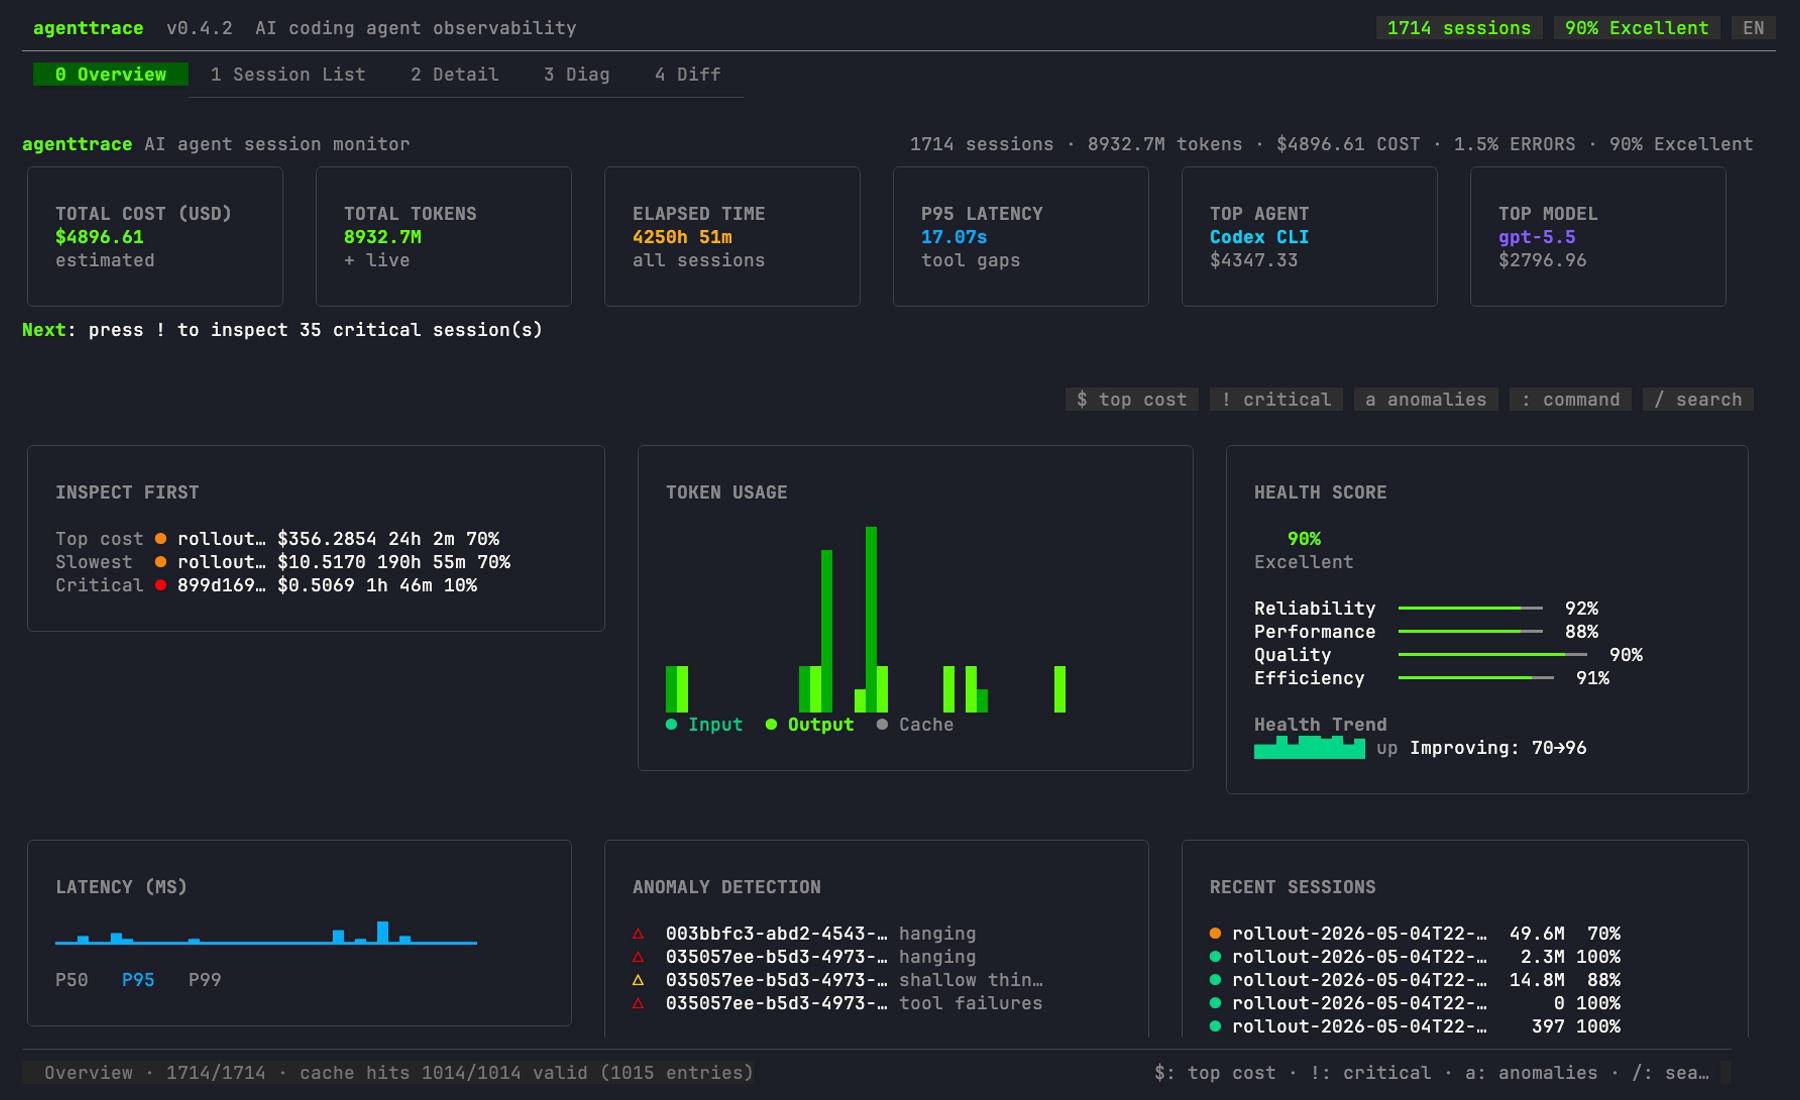
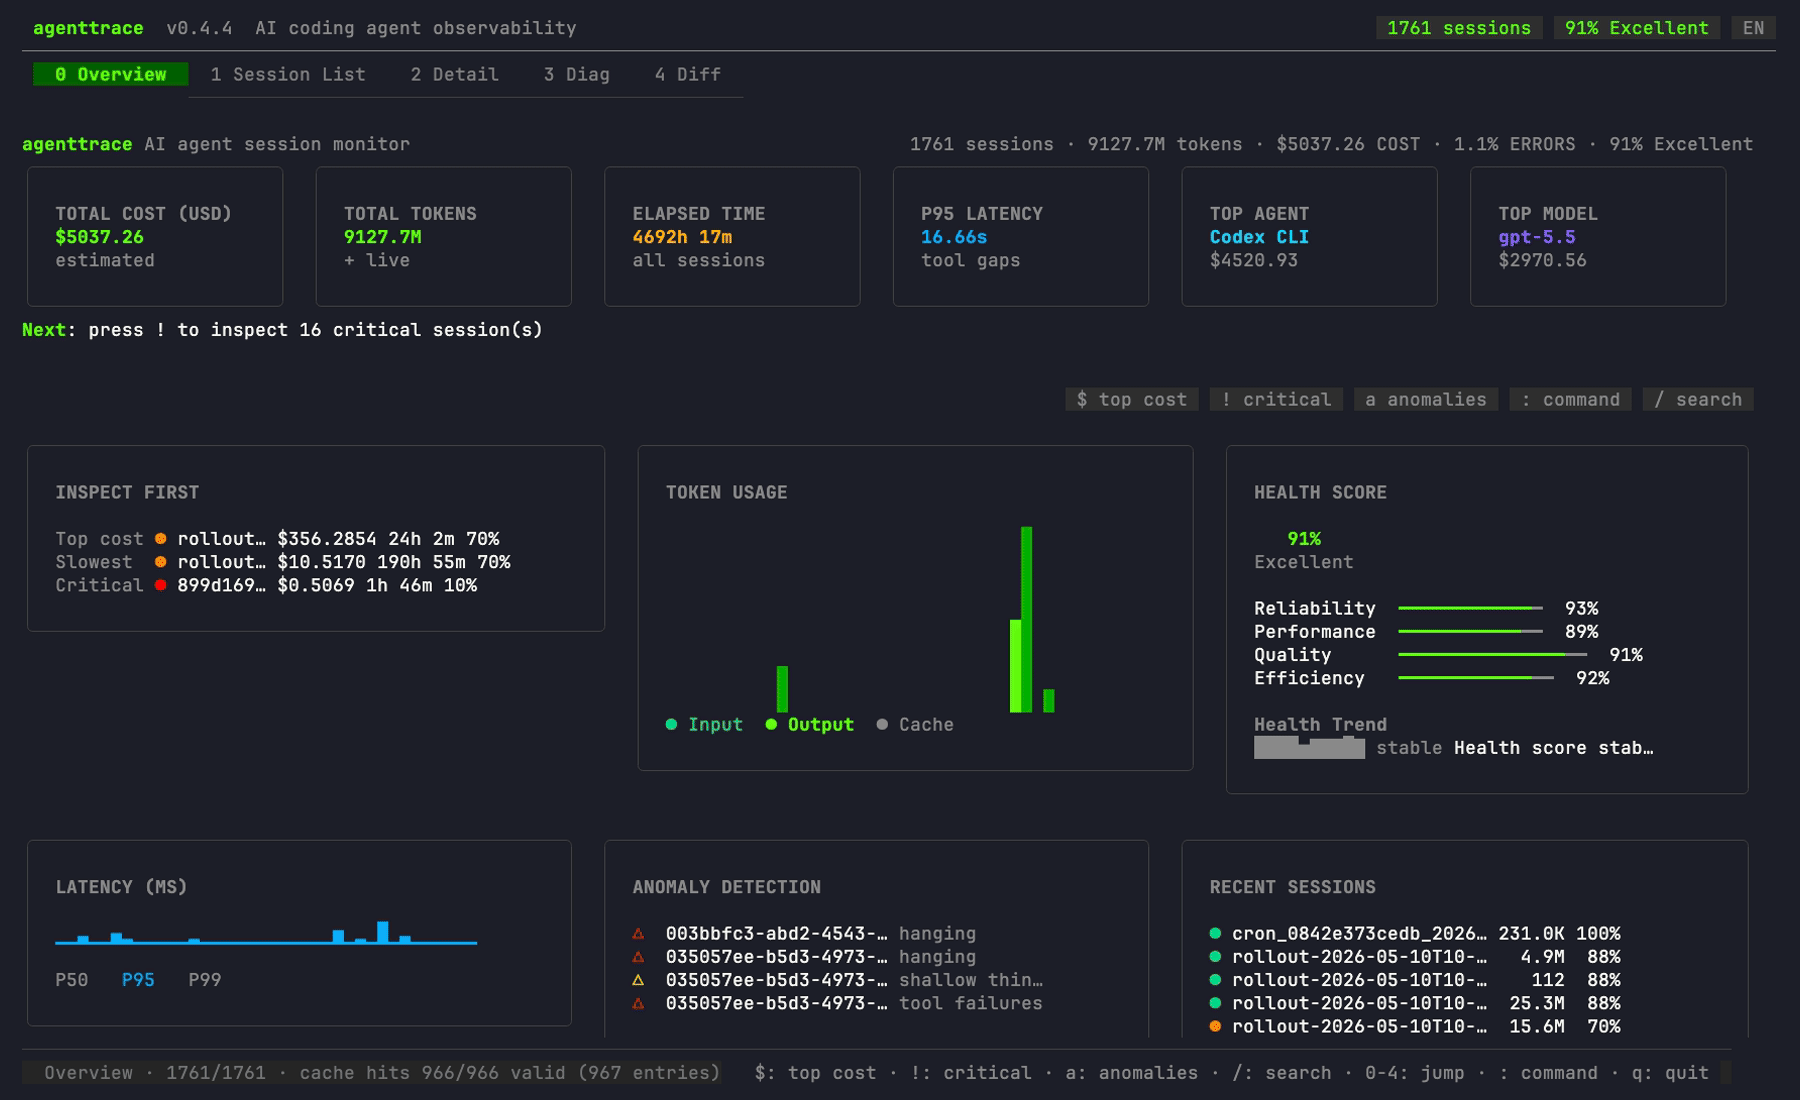
Improve real overview marketing assets

diff --git a/site/demo-report.html b/site/demo-report.html
@@ -18,38 +18,84 @@ section{border:1px solid var(--line);background:rgba(16,20,25,.78);padding:20px;
 <main>
 <header>
 <div><div class="brand">agenttrace</div><h1>AI agent session overview</h1><p>Static report generated from local coding-agent traces.</p></div>
-<div class="meta">v0.4.3<br>3 Sessions<br><code>agenttrace --overview -f html</code></div>
+<div class="meta">v0.4.4<br>1761 Sessions<br><code>agenttrace --overview -f html</code></div>
 </header>
 <div class="grid" aria-label="summary metrics">
-<div class="metric"><span>Sessions</span><strong>3</strong><p>1 Healthy / 1 Warning / 1 Critical</p></div>
-<div class="metric"><span>Total tokens</span><strong>278200</strong><p>+ live</p></div>
-<div class="metric"><span>Average health</span><strong>58.7</strong><p>Fleet quality score</p></div>
-<div class="metric"><span>Total estimated cost</span><strong>$0.81</strong><p>Estimated session cost</p></div>
-<div class="metric bad"><span>Tool failures</span><strong>3/5</strong><p>60.0% failure rate</p></div>
+<div class="metric"><span>Sessions</span><strong>1761</strong><p>1411 Healthy / 334 Warning / 16 Critical</p></div>
+<div class="metric"><span>Total tokens</span><strong>9126644351</strong><p>+ live</p></div>
+<div class="metric"><span>Average health</span><strong>91.8</strong><p>Fleet quality score</p></div>
+<div class="metric"><span>Total estimated cost</span><strong>$5036.55</strong><p>Estimated session cost</p></div>
+<div class="metric "><span>Tool failures</span><strong>1374/125116</strong><p>1.1% failure rate</p></div>
 </div>
-<section><h2>Health Trend</h2><p>Declining: 100→66</p></section>
+<section><h2>Health Trend</h2><p>Health score stable at 93</p></section>
 <section><h2>Recent sessions</h2><table><thead><tr><th>Session</th><th>Source</th><th>Model</th><th class="num">Total tokens</th><th class="num">Cost</th><th class="num">Health</th><th class="num">Anomalies</th></tr></thead><tbody>
-<tr><td>03-shallow-chat</td><td>Hermes Agent (JSONL)</td><td>gemini-2.5-pro</td><td class="num">30200</td><td class="num">$0.0570</td><td class="num health-warn">66</td><td class="num">2</td></tr>
-<tr><td>02-hanging-loop</td><td>Hermes Agent (JSONL)</td><td>gpt-5.1</td><td class="num">233000</td><td class="num">$0.7113</td><td class="num health-bad">10</td><td class="num">3</td></tr>
-<tr><td>01-healthy-ship</td><td>Hermes Agent (JSONL)</td><td>claude-sonnet-4</td><td class="num">15000</td><td class="num">$0.0423</td><td class="num health-good">100</td><td class="num">0</td></tr>
+<tr><td>cron_0842e373cedb_20260510_103446</td><td>Hermes Agent (DB)</td><td>deepseek-v4-pro</td><td class="num">231046</td><td class="num">$0.0262</td><td class="num health-good">100</td><td class="num">0</td></tr>
+<tr><td>rollout-2026-05-10T10-33-05-019e0fbb-2da0-7570-b5f6-52a87f36c475</td><td>Codex CLI</td><td>gpt-5.5</td><td class="num">4287306</td><td class="num">$3.8765</td><td class="num health-good">88</td><td class="num">1</td></tr>
+<tr><td>rollout-2026-05-10T10-28-58-019e0fb7-6630-7d33-abbb-49598571d2f0</td><td>Codex CLI</td><td>default</td><td class="num">112</td><td class="num">$0.0003</td><td class="num health-good">88</td><td class="num">1</td></tr>
+<tr><td>rollout-2026-05-10T10-10-26-019e0fa6-6f54-7e52-bd20-ef397dbef095</td><td>Codex CLI</td><td>gpt-5.5</td><td class="num">24795262</td><td class="num">$18.9060</td><td class="num health-good">88</td><td class="num">1</td></tr>
+<tr><td>rollout-2026-05-10T10-00-22-019e0f9d-3aa3-7dc3-888d-d0018aa9db58</td><td>Codex CLI</td><td>gpt-5.5</td><td class="num">15596970</td><td class="num">$12.6673</td><td class="num health-warn">70</td><td class="num">1</td></tr>
+<tr><td>cron_7d8438ade909_20260510_100054</td><td>Hermes Agent (DB)</td><td>deepseek-v4-pro</td><td class="num">746516</td><td class="num">$0.0548</td><td class="num health-good">100</td><td class="num">0</td></tr>
+<tr><td>cron_0842e373cedb_20260510_092908</td><td>Hermes Agent (DB)</td><td>deepseek-v4-pro</td><td class="num">273808</td><td class="num">$0.0572</td><td class="num health-good">100</td><td class="num">0</td></tr>
+<tr><td>cron_a0badf79a0f1_20260510_090002</td><td>Hermes Agent (DB)</td><td>deepseek-v4-pro</td><td class="num">0</td><td class="num">$0.0000</td><td class="num health-good">100</td><td class="num">0</td></tr>
+<tr><td>cron_08a59868b230_20260510_084925</td><td>Hermes Agent (DB)</td><td>deepseek-v4-pro</td><td class="num">151445</td><td class="num">$0.0210</td><td class="num health-good">100</td><td class="num">0</td></tr>
+<tr><td>cron_cecb519df4ac_20260510_083045</td><td>Hermes Agent (DB)</td><td>deepseek-v4-pro</td><td class="num">2443632</td><td class="num">$0.0530</td><td class="num health-good">100</td><td class="num">0</td></tr>
+<tr><td>cron_0842e373cedb_20260510_082323</td><td>Hermes Agent (DB)</td><td>deepseek-v4-pro</td><td class="num">227107</td><td class="num">$0.0365</td><td class="num health-good">100</td><td class="num">0</td></tr>
+<tr><td>cron_0842e373cedb_20260510_071728</td><td>Hermes Agent (DB)</td><td>deepseek-v4-pro</td><td class="num">267343</td><td class="num">$0.0252</td><td class="num health-good">100</td><td class="num">0</td></tr>
+<tr><td>cron_0842e373cedb_20260510_061436</td><td>Hermes Agent (DB)</td><td>deepseek-v4-pro</td><td class="num">144309</td><td class="num">$0.0215</td><td class="num health-good">100</td><td class="num">0</td></tr>
+<tr><td>cron_0842e373cedb_20260510_051108</td><td>Hermes Agent (DB)</td><td>deepseek-v4-pro</td><td class="num">142889</td><td class="num">$0.0273</td><td class="num health-good">100</td><td class="num">0</td></tr>
+<tr><td>cron_0842e373cedb_20260510_040841</td><td>Hermes Agent (DB)</td><td>deepseek-v4-pro</td><td class="num">132873</td><td class="num">$0.0174</td><td class="num health-good">100</td><td class="num">0</td></tr>
+<tr><td>cron_0842e373cedb_20260510_030507</td><td>Hermes Agent (DB)</td><td>deepseek-v4-pro</td><td class="num">167354</td><td class="num">$0.0143</td><td class="num health-good">100</td><td class="num">0</td></tr>
+<tr><td>cron_0842e373cedb_20260510_020059</td><td>Hermes Agent (DB)</td><td>deepseek-v4-pro</td><td class="num">157768</td><td class="num">$0.0323</td><td class="num health-good">100</td><td class="num">0</td></tr>
+<tr><td>cron_0842e373cedb_20260510_005452</td><td>Hermes Agent (DB)</td><td>deepseek-v4-pro</td><td class="num">232633</td><td class="num">$0.0182</td><td class="num health-good">100</td><td class="num">0</td></tr>
+<tr><td>cron_0842e373cedb_20260509_234835</td><td>Hermes Agent (DB)</td><td>deepseek-v4-pro</td><td class="num">366561</td><td class="num">$0.0555</td><td class="num health-good">100</td><td class="num">0</td></tr>
+<tr><td>cron_0842e373cedb_20260509_224516</td><td>Hermes Agent (DB)</td><td>deepseek-v4-pro</td><td class="num">109427</td><td class="num">$0.0188</td><td class="num health-good">100</td><td class="num">0</td></tr>
 </tbody></table></section>
 <section><h2>By agent</h2><table><thead><tr><th>Agent</th><th class="num">Sessions</th><th class="num">Cost</th></tr></thead><tbody>
-<tr><td>Hermes Agent (JSONL)</td><td class="num">3</td><td class="num">$0.81</td></tr>
+<tr><td>Codex CLI</td><td class="num">615</td><td class="num">$4520.23</td></tr>
+<tr><td>Hermes Agent (DB)</td><td class="num">603</td><td class="num">$105.81</td></tr>
+<tr><td>Claude Code</td><td class="num">343</td><td class="num">$331.13</td></tr>
+<tr><td>OpenCode (DB)</td><td class="num">188</td><td class="num">$79.38</td></tr>
+<tr><td>Generic JSON/JSONL</td><td class="num">12</td><td class="num">$0.00</td></tr>
 </tbody></table></section>
 <section><h2>By model</h2><table><thead><tr><th>Model</th><th class="num">Sessions</th><th class="num">Cost</th></tr></thead><tbody>
-<tr><td>gpt-5.1</td><td class="num">1</td><td class="num">$0.71</td></tr>
-<tr><td>gemini-2.5-pro</td><td class="num">1</td><td class="num">$0.06</td></tr>
-<tr><td>claude-sonnet-4</td><td class="num">1</td><td class="num">$0.04</td></tr>
+<tr><td>gpt-5.5</td><td class="num">124</td><td class="num">$2969.85</td></tr>
+<tr><td>gpt-5.4</td><td class="num">384</td><td class="num">$1400.10</td></tr>
+<tr><td>gpt-5.3-codex</td><td class="num">82</td><td class="num">$147.00</td></tr>
+<tr><td>claude-sonnet-4-6</td><td class="num">57</td><td class="num">$124.42</td></tr>
+<tr><td>glm-5.1</td><td class="num">99</td><td class="num">$87.61</td></tr>
+<tr><td>deepseek-v4-pro</td><td class="num">191</td><td class="num">$60.15</td></tr>
+<tr><td>mlx-community/Qwen3.6-35B-A3B-4bit</td><td class="num">2</td><td class="num">$36.27</td></tr>
+<tr><td>qwen3.6-plus</td><td class="num">47</td><td class="num">$33.51</td></tr>
+<tr><td>glm-5</td><td class="num">41</td><td class="num">$31.59</td></tr>
+<tr><td>glm-5-turbo</td><td class="num">20</td><td class="num">$27.14</td></tr>
+<tr><td>kimi-k2.6</td><td class="num">18</td><td class="num">$23.09</td></tr>
+<tr><td>minimax-2.7</td><td class="num">132</td><td class="num">$22.31</td></tr>
 </tbody></table></section>
 <section><h2>Recent anomalies</h2>
 <table><thead><tr><th>Session</th><th>Type</th><th>Age</th></tr></thead><tbody>
-<tr><td>02-hanging-loop</td><td>hanging</td><td>now</td></tr>
-<tr><td>02-hanging-loop</td><td>shallow thinking</td><td>now</td></tr>
-<tr><td>02-hanging-loop</td><td>tool failures</td><td>now</td></tr>
-<tr><td>03-shallow-chat</td><td>shallow thinking</td><td>now</td></tr>
-<tr><td>03-shallow-chat</td><td>no tools</td><td>now</td></tr>
+<tr><td>003bbfc3-abd2-4543-80d4-da9e743ac30d</td><td>hanging</td><td>now</td></tr>
+<tr><td>035057ee-b5d3-4973-a979-edc162ec8d8f</td><td>hanging</td><td>now</td></tr>
+<tr><td>035057ee-b5d3-4973-a979-edc162ec8d8f</td><td>shallow thinking</td><td>now</td></tr>
+<tr><td>035057ee-b5d3-4973-a979-edc162ec8d8f</td><td>tool failures</td><td>now</td></tr>
+<tr><td>067531ee-ea81-4139-9bc2-de1700bddecb</td><td>hanging</td><td>now</td></tr>
+<tr><td>09c7c008-de2c-4174-8141-fd557e60f246</td><td>hanging</td><td>now</td></tr>
+<tr><td>104f245e-2485-4107-a320-16f950000c94</td><td>shallow thinking</td><td>now</td></tr>
+<tr><td>104f245e-2485-4107-a320-16f950000c94</td><td>tool failures</td><td>now</td></tr>
+<tr><td>15292f42-b24b-4dda-a933-55c1d80c93e4</td><td>shallow thinking</td><td>now</td></tr>
+<tr><td>17623e3d-87ee-4194-bddc-44953243bfc6</td><td>hanging</td><td>now</td></tr>
+<tr><td>19fd2728-7709-43cb-9274-f356d8533f51</td><td>shallow thinking</td><td>now</td></tr>
+<tr><td>1a41c99d-3820-44fa-8dd2-1d51f3b4654c</td><td>hanging</td><td>now</td></tr>
+<tr><td>1a41c99d-3820-44fa-8dd2-1d51f3b4654c</td><td>shallow thinking</td><td>now</td></tr>
+<tr><td>1be3cd5d-2124-4363-bef9-933c32d3ca19</td><td>tool failures</td><td>now</td></tr>
+<tr><td>21045ccd-62d5-4116-b75a-9410e0f6b193</td><td>hanging</td><td>now</td></tr>
+<tr><td>2380d30a-87a7-481e-b514-9cc584639cdc</td><td>hanging</td><td>now</td></tr>
+<tr><td>23cb327a-1bb2-40d3-8df0-bf863eff4746</td><td>hanging</td><td>now</td></tr>
+<tr><td>267ce38a-8e9c-491f-a46e-747ebfaab86d</td><td>hanging</td><td>now</td></tr>
+<tr><td>2e0d8878-4525-412c-8a56-111eea7ed197</td><td>hanging</td><td>now</td></tr>
+<tr><td>33c3d19c-cb7a-49cc-b359-b065bc80f896</td><td>hanging</td><td>now</td></tr>
 </tbody></table>
 </section>
 </main>
 </body>
 </html>
+

diff --git a/site/index.html b/site/index.html
@@ -30,7 +30,7 @@
         "applicationCategory": "DeveloperApplication",
         "applicationSubCategory": "AI agent session observability",
         "operatingSystem": "macOS, Linux, Windows",
-        "softwareVersion": "0.4.3",
+        "softwareVersion": "0.4.4",
         "description": "Local-first TUI and report generator for reviewing AI coding agent cost, tokens, health, latency, failures, and slow-run evidence across historical sessions.",
         "keywords": "AI coding agent observability, Claude Code logs, Codex CLI logs, Gemini CLI sessions, Cursor agent traces, Aider chat history, token cost tracking, local-first TUI",
         "featureList": [
@@ -95,17 +95,17 @@
         <div class="hero-visual" aria-label="agenttrace real local run dashboard preview">
           <div class="window-bar">
             <span></span><span></span><span></span>
-            <strong>agenttrace v0.4.3</strong>
+            <strong>agenttrace v0.4.4</strong>
           </div>
           <img src="assets/readme-real-overview.png" alt="agenttrace overview from a real local run with sessions, token cost, latency, and health" />
         </div>
 
         <div class="live-ledger" id="evidence" aria-label="Real local run metrics">
-          <article><span>sessions analyzed</span><strong>1,714</strong></article>
-          <article><span>tokens traced</span><strong>8.94B</strong></article>
-          <article><span>estimated cost</span><strong>$4,903.00</strong></article>
-          <article><span>critical runs</span><strong>35</strong></article>
-          <article><span>average health</span><strong>90%</strong></article>
+          <article><span>sessions analyzed</span><strong>1,761</strong></article>
+          <article><span>tokens traced</span><strong>9.13B</strong></article>
+          <article><span>estimated cost</span><strong>$5,037.26</strong></article>
+          <article><span>critical runs</span><strong>16</strong></article>
+          <article><span>average health</span><strong>91%</strong></article>
         </div>
       </section>
 

diff --git a/internal/engine/engine_test.go b/internal/engine/engine_test.go
@@ -1315,12 +1315,13 @@ func TestReportOverviewJSONIncludesOperationalSummary(t *testing.T) {
 	var payload struct {
 		Version string `json:"version"`
 		Summary struct {
-			TotalSessions int     `json:"total_sessions"`
-			Critical      int     `json:"critical"`
-			TotalCost     float64 `json:"total_cost"`
-			TotalTokens   int     `json:"total_tokens"`
-			ToolFailRate  float64 `json:"tool_fail_rate"`
-			HealthTrend   struct {
+			TotalSessions  int     `json:"total_sessions"`
+			Critical       int     `json:"critical"`
+			TotalCost      float64 `json:"total_cost"`
+			TotalTokens    int     `json:"total_tokens"`
+			ToolFailRate   float64 `json:"tool_fail_rate"`
+			AnomaliesTotal int     `json:"anomalies_total"`
+			HealthTrend    struct {
 				Direction  string `json:"direction"`
 				Regressing bool   `json:"regressing"`
 				Message    string `json:"message"`
@@ -1351,12 +1352,44 @@ func TestReportOverviewJSONIncludesOperationalSummary(t *testing.T) {
 	if payload.Summary.TotalCost != 1 || payload.Summary.TotalTokens != 525 || payload.Summary.ToolFailRate != 25 {
 		t.Fatalf("missing operational totals: %+v", payload.Summary)
 	}
+	if payload.Summary.AnomaliesTotal != 1 {
+		t.Fatalf("missing anomaly total: %+v", payload.Summary)
+	}
 	if payload.Summary.HealthTrend.Direction == "" || payload.Summary.HealthTrend.Message == "" || len(payload.Summary.HealthTrend.Points) != 2 {
 		t.Fatalf("missing health trend: %+v", payload.Summary.HealthTrend)
 	}
 	if len(payload.ByAgent) != 2 || len(payload.RecentSessions) != 2 || len(payload.Anomalies) != 1 {
 		t.Fatalf("missing overview sections: agents=%d recent=%d anomalies=%d",
 			len(payload.ByAgent), len(payload.RecentSessions), len(payload.Anomalies))
+	}
+}
+
+func TestReportOverviewJSONLimitsAnomalies(t *testing.T) {
+	var sessions []Session
+	for i := 0; i < 55; i++ {
+		sessions = append(sessions, Session{
+			Name:      fmt.Sprintf("s%02d", i),
+			Health:    40,
+			Anomalies: []Anomaly{{Type: "hanging", Severity: SeverityHigh}},
+		})
+	}
+
+	var payload struct {
+		Summary struct {
+			AnomaliesTotal     int  `json:"anomalies_total"`
+			AnomaliesReturned  int  `json:"anomalies_returned"`
+			AnomaliesTruncated bool `json:"anomalies_truncated"`
+		} `json:"summary"`
+		Anomalies []AnomalyTop `json:"anomalies"`
+	}
+	if err := json.Unmarshal([]byte(ReportOverviewJSON(ComputeOverview(sessions), sessions)), &payload); err != nil {
+		t.Fatalf("invalid overview json: %v", err)
+	}
+	if payload.Summary.AnomaliesTotal != 55 || payload.Summary.AnomaliesReturned != 50 || !payload.Summary.AnomaliesTruncated {
+		t.Fatalf("bad anomaly limit summary: %+v", payload.Summary)
+	}
+	if len(payload.Anomalies) != 50 {
+		t.Fatalf("expected 50 returned anomalies, got %d", len(payload.Anomalies))
 	}
 }
 

diff --git a/internal/engine/report.go b/internal/engine/report.go
@@ -440,6 +440,8 @@ func ReportOverviewJSON(ov Overview, sessions []Session) string {
 	if anomalies == nil {
 		anomalies = []AnomalyTop{}
 	}
+	anomalyLimit := minReportInt(len(anomalies), 50)
+	anomaliesReturned := anomalies[:anomalyLimit]
 	trend := AnalyzeHealthTrend(orderedSessions)
 	points := make([]trendPoint, 0, len(trend.Points))
 	for _, p := range trend.Points {
@@ -449,16 +451,19 @@ func ReportOverviewJSON(ov Overview, sessions []Session) string {
 	payload := map[string]interface{}{
 		"version": Version,
 		"summary": map[string]interface{}{
-			"total_sessions": ov.TotalSessions,
-			"healthy":        ov.Healthy,
-			"warning":        ov.Warning,
-			"critical":       ov.Critical,
-			"avg_health":     avgHealth,
-			"total_cost":     round4(ov.TotalCost),
-			"total_tokens":   totalTokens,
-			"tool_calls":     totalTools,
-			"tool_failures":  failedTools,
-			"tool_fail_rate": toolFailRate,
+			"total_sessions":      ov.TotalSessions,
+			"healthy":             ov.Healthy,
+			"warning":             ov.Warning,
+			"critical":            ov.Critical,
+			"avg_health":          avgHealth,
+			"total_cost":          round4(ov.TotalCost),
+			"total_tokens":        totalTokens,
+			"tool_calls":          totalTools,
+			"tool_failures":       failedTools,
+			"tool_fail_rate":      toolFailRate,
+			"anomalies_total":     len(anomalies),
+			"anomalies_returned":  len(anomaliesReturned),
+			"anomalies_truncated": len(anomaliesReturned) < len(anomalies),
 			"health_trend": map[string]interface{}{
 				"direction":  trend.Direction,
 				"regressing": trend.Regressing,
@@ -470,7 +475,7 @@ func ReportOverviewJSON(ov Overview, sessions []Session) string {
 		"by_agent":        agents,
 		"by_model":        models,
 		"recent_sessions": recent,
-		"anomalies":       anomalies,
+		"anomalies":       anomaliesReturned,
 	}
 	out, _ := json.MarshalIndent(payload, "", "  ")
 	return string(out)

diff --git a/homebrew/Formula/agenttrace.rb b/homebrew/Formula/agenttrace.rb
@@ -2,7 +2,7 @@ class Agenttrace < Formula
   desc "TUI observability for AI coding agent sessions, cost, latency, and anomalies"
   homepage "https://github.com/luoyuctl/agenttrace"
   url "https://github.com/luoyuctl/agenttrace.git", branch: "master"
-  version "0.4.3"
+  version "0.4.4"
   license "MIT"
 
   depends_on "go" => :build
@@ -12,6 +12,6 @@ class Agenttrace < Formula
   end
 
   test do
-    assert_match "agenttrace v0.4.3", shell_output("#{bin}/agenttrace --version")
+    assert_match "agenttrace v0.4.4", shell_output("#{bin}/agenttrace --version")
   end
 end

diff --git a/internal/engine/engine.go b/internal/engine/engine.go
@@ -15,7 +15,7 @@ import (
 	"github.com/luoyuctl/agenttrace/internal/i18n"
 )
 
-const Version = "0.4.3"
+const Version = "0.4.4"
 
 // Severity constants for anomaly severity (internal, not i18n).
 const (

diff --git a/README.md b/README.md
@@ -20,7 +20,7 @@
   <a href="https://goreportcard.com/report/github.com/luoyuctl/agenttrace"><img src="https://goreportcard.com/badge/github.com/luoyuctl/agenttrace" alt="Go Report Card"></a>
   <img src="https://img.shields.io/badge/go-1.25+-00ADD8.svg" alt="Go">
   <img src="https://img.shields.io/badge/license-MIT-green.svg" alt="License">
-  <img src="https://img.shields.io/badge/Homebrew-v0.4.3-2bbc8a.svg" alt="Homebrew">
+  <img src="https://img.shields.io/badge/Homebrew-v0.4.4-2bbc8a.svg" alt="Homebrew">
 </p>
 
 <p align="center">
@@ -63,17 +63,17 @@ agenttrace
 That local run found:
 
 ```text
-AGENTTRACE v0.4.3
+AGENTTRACE v0.4.4
 ```
 
 | Signal | What agenttrace found |
 |---|---:|
-| Analyzed sessions | 1,714 |
-| Total tokens | 8.93B |
-| Estimated cost | $4,896.61 |
-| Tool failure rate | 1.5% |
-| Critical sessions | 35 |
-| Average health | 90% |
+| Analyzed sessions | 1,761 |
+| Total tokens | 9.13B |
+| Estimated cost | $5,037.26 |
+| Tool failure rate | 1.1% |
+| Critical sessions | 16 |
+| Average health | 91% |
 
 ## Install
 

diff --git a/README.zh-CN.md b/README.zh-CN.md
@@ -20,7 +20,7 @@
   <a href="https://goreportcard.com/report/github.com/luoyuctl/agenttrace"><img src="https://goreportcard.com/badge/github.com/luoyuctl/agenttrace" alt="Go Report Card"></a>
   <img src="https://img.shields.io/badge/go-1.25+-00ADD8.svg" alt="Go">
   <img src="https://img.shields.io/badge/license-MIT-green.svg" alt="License">
-  <img src="https://img.shields.io/badge/Homebrew-v0.4.3-2bbc8a.svg" alt="Homebrew">
+  <img src="https://img.shields.io/badge/Homebrew-v0.4.4-2bbc8a.svg" alt="Homebrew">
 </p>
 
 <p align="center">

diff --git a/CHANGELOG.md b/CHANGELOG.md
@@ -4,6 +4,18 @@
 
 No unreleased changes yet.
 
+## v0.4.4 - 2026-05-10
+
+### Added
+
+- Added a real local-data marketing refresh script for README and site assets.
+
+### Changed
+
+- Capped overview JSON anomaly details and added anomaly total/truncation metadata
+  so large real histories stay readable for automation and promotional reports.
+- Refreshed README and site screenshots from a real local run.
+
 ## v0.4.3 - 2026-05-10
 
 ### Changed
